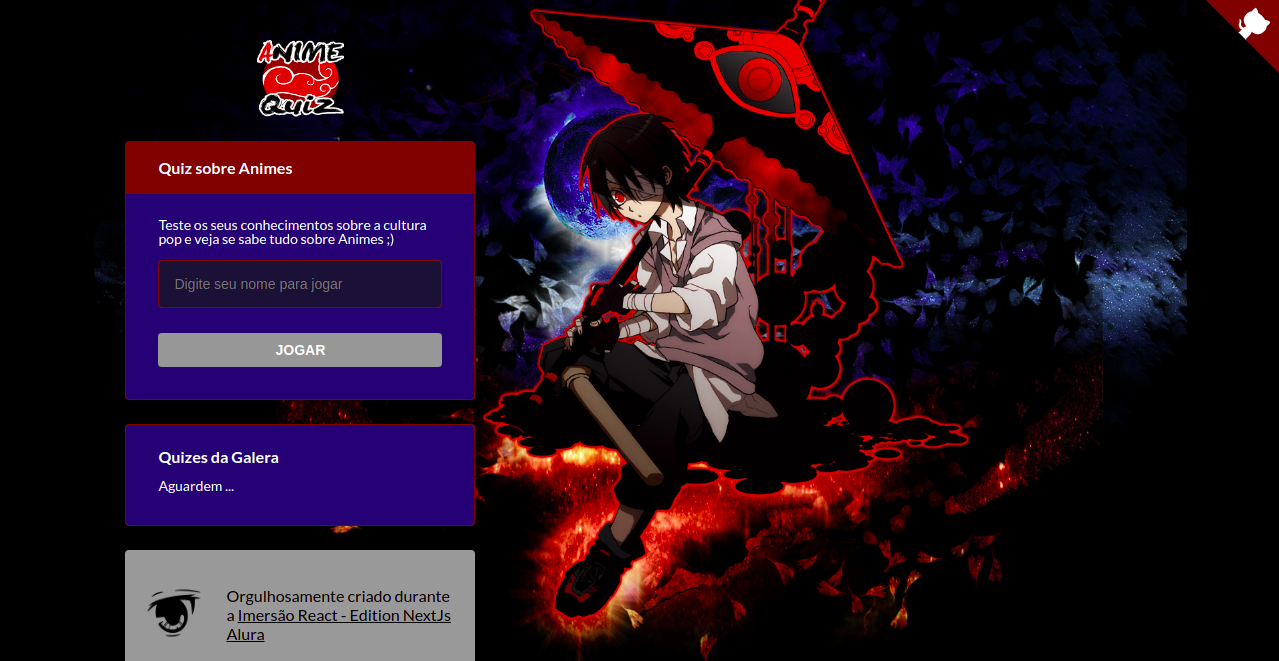
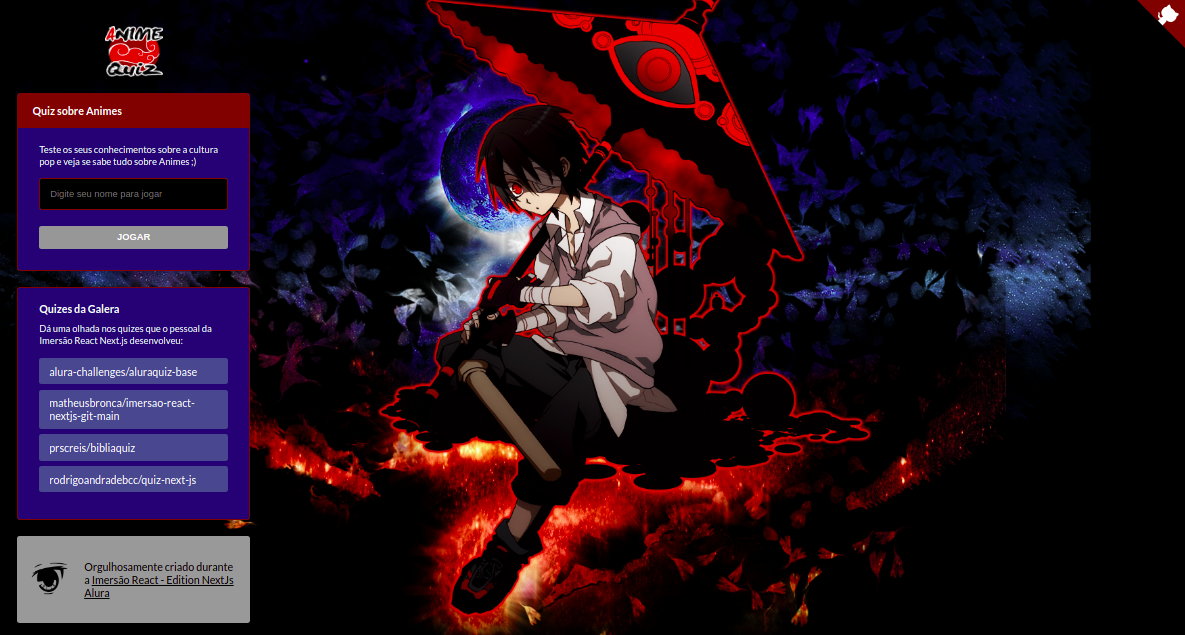
Updated code, restructured

diff --git a/src/screens/Quiz/index.js b/src/screens/Quiz/index.js
@@ -46,7 +46,7 @@ function ResultWidget({ results }) {
       return 'Mas tente novamente.';
     }
     if (value <= 3) {
-      return 'Mandou muito bem, quase perfeito. Se estiver interessado em aprender progromação para um dia criar um quiz como esse ou desenvolver algo mais criativo não deixa de conferir os cursos da Alura.';
+      return 'Mandou muito bem, quase perfeito. Se estiver interessado em aprender programação, para um dia criar um quiz como esse ou desenvolver algo mais criativo, não deixa de conferir os cursos da Alura.';
     }
     if (value > 3) {
       return 'Caracas perfeito, você foi incrível. E sobre programação, quer aprender ou adquirir mais conhecimento não deixa de conferir os cursos da Alura.';
@@ -112,7 +112,7 @@ function ResultWidget({ results }) {
             </p>
           )}
 
-        <Button onClick={() => router.push('/')}>Início</Button>
+        <Button onClick={() => router.push('/')}>Jogar Novamente</Button>
 
       </Widget.Content>
     </Widget>

diff --git a/pages/_app.js b/pages/_app.js
@@ -43,14 +43,13 @@ export default function App({ Component, pageProps }) {
         <meta name="title" content="Quiz - Animes" key="title" />
         <meta name="description" content={db.description} key="desc" />
 
-        {/* Open Graph / Facebook */}
         <meta property="og:type" content="website" />
         <meta property="og:site_name" content="Quiz - Animes" key="ogsitename" />
         <meta property="og:url" content="https://animesquiz.ricardomalan.vercel.app/" key="ogurl" />
         <meta property="og:title" content="Quiz - Animes" key="ogtitle" />
         <meta property="og:description" content={db.description} key="ogdesc" />
         <meta property="og:image" content={db.preview_site} key="ogimg" />
-        <meta property="og:image:type" content="image/jpeg" />
+        <meta property="og:image:type" content="image/png" />
       </Head>
       <ThemeProvider theme={theme}>
         <GlobalStyle />

diff --git a/pages/index.js b/pages/index.js
@@ -69,6 +69,8 @@ export default function Home() {
           <Widget.Content>
             <h1>Quizes da Galera</h1>
 
+            <p>Dá uma olhada nos quizes que o pessoal da Imersão React Next.js desenvolveu:</p>
+
             <ul>
               {db.external.map((linkExterno) => {
                 const [projectName, githubUser] = linkExterno
